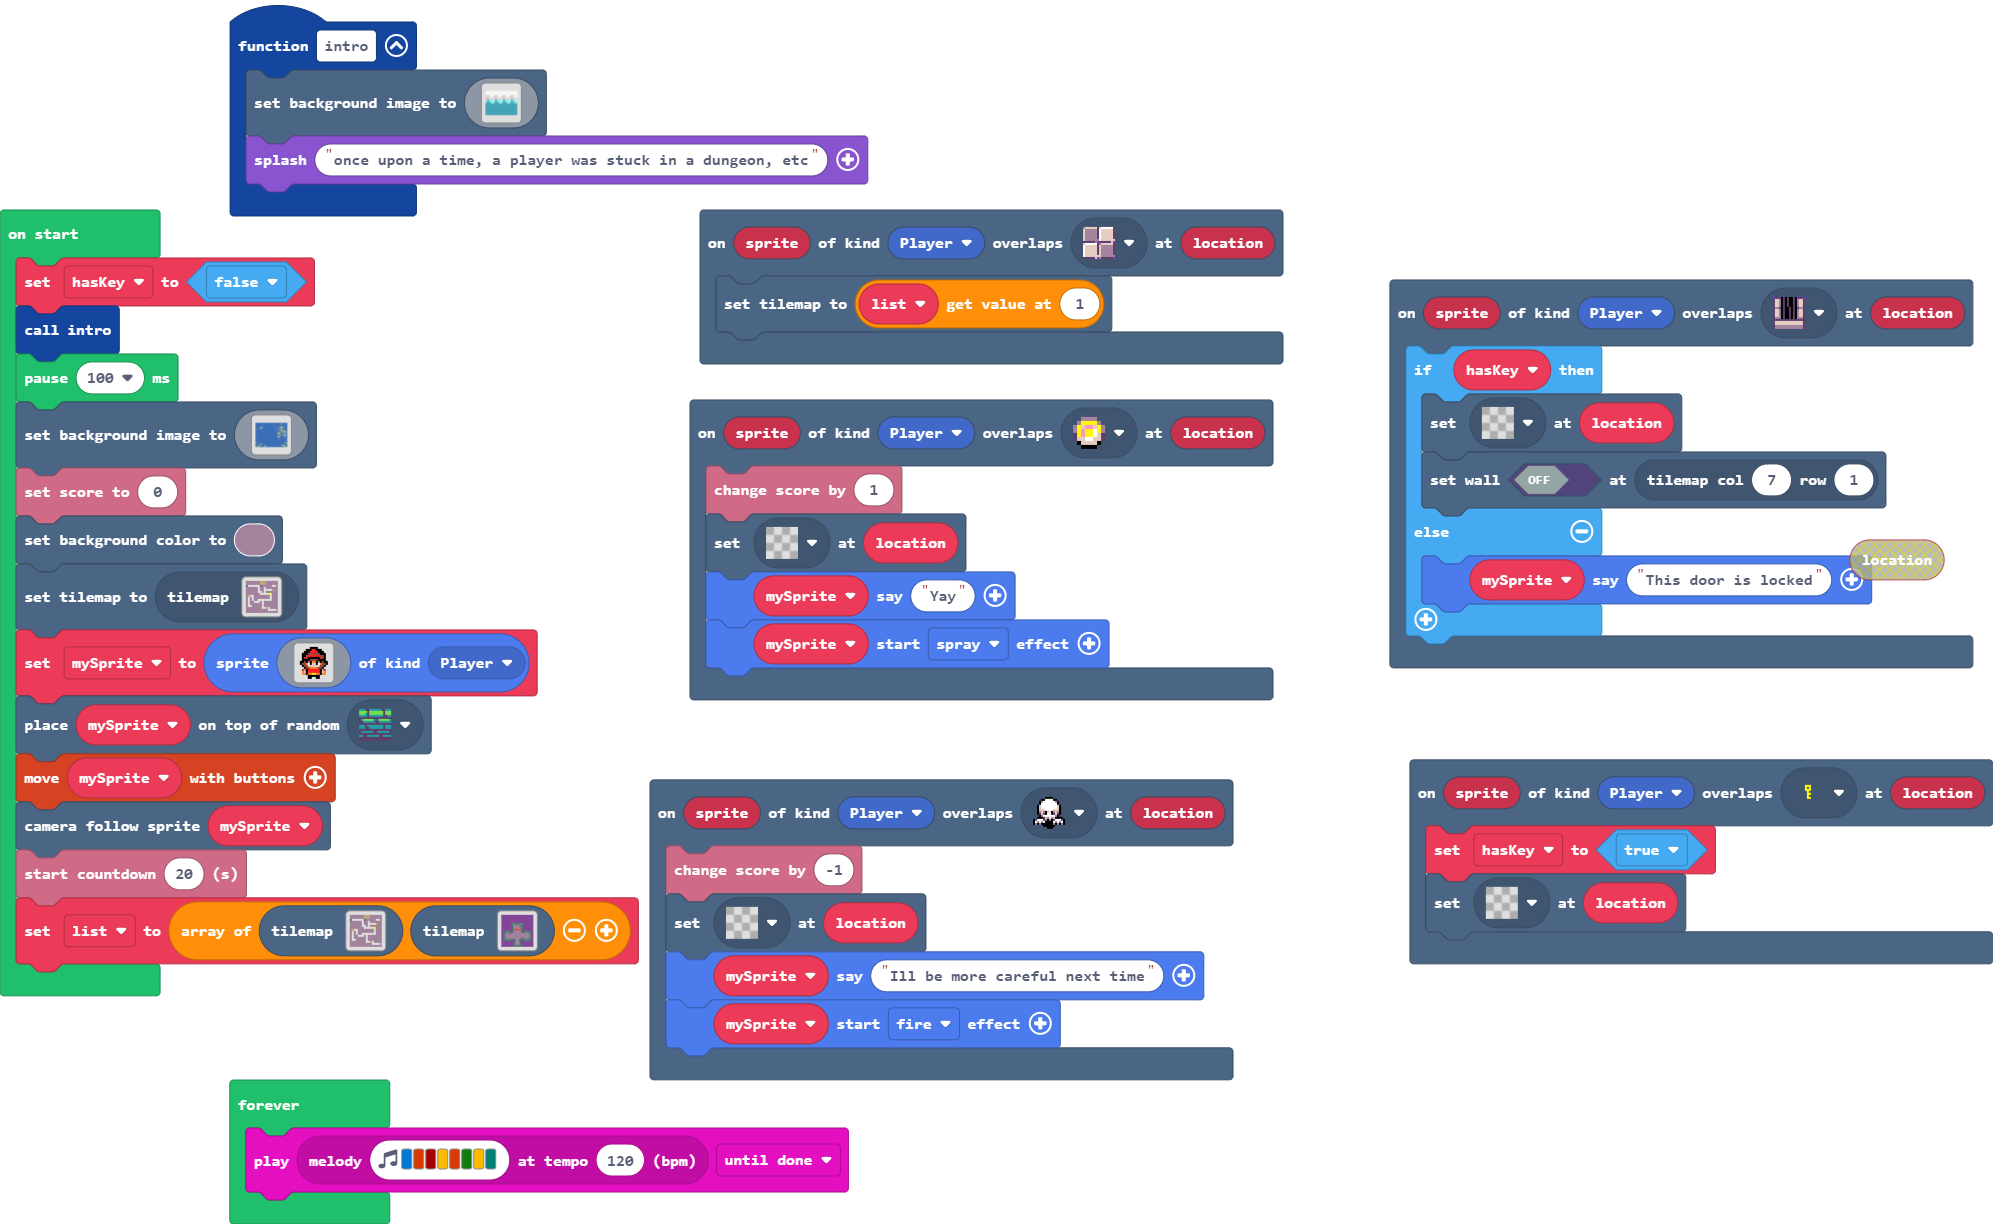
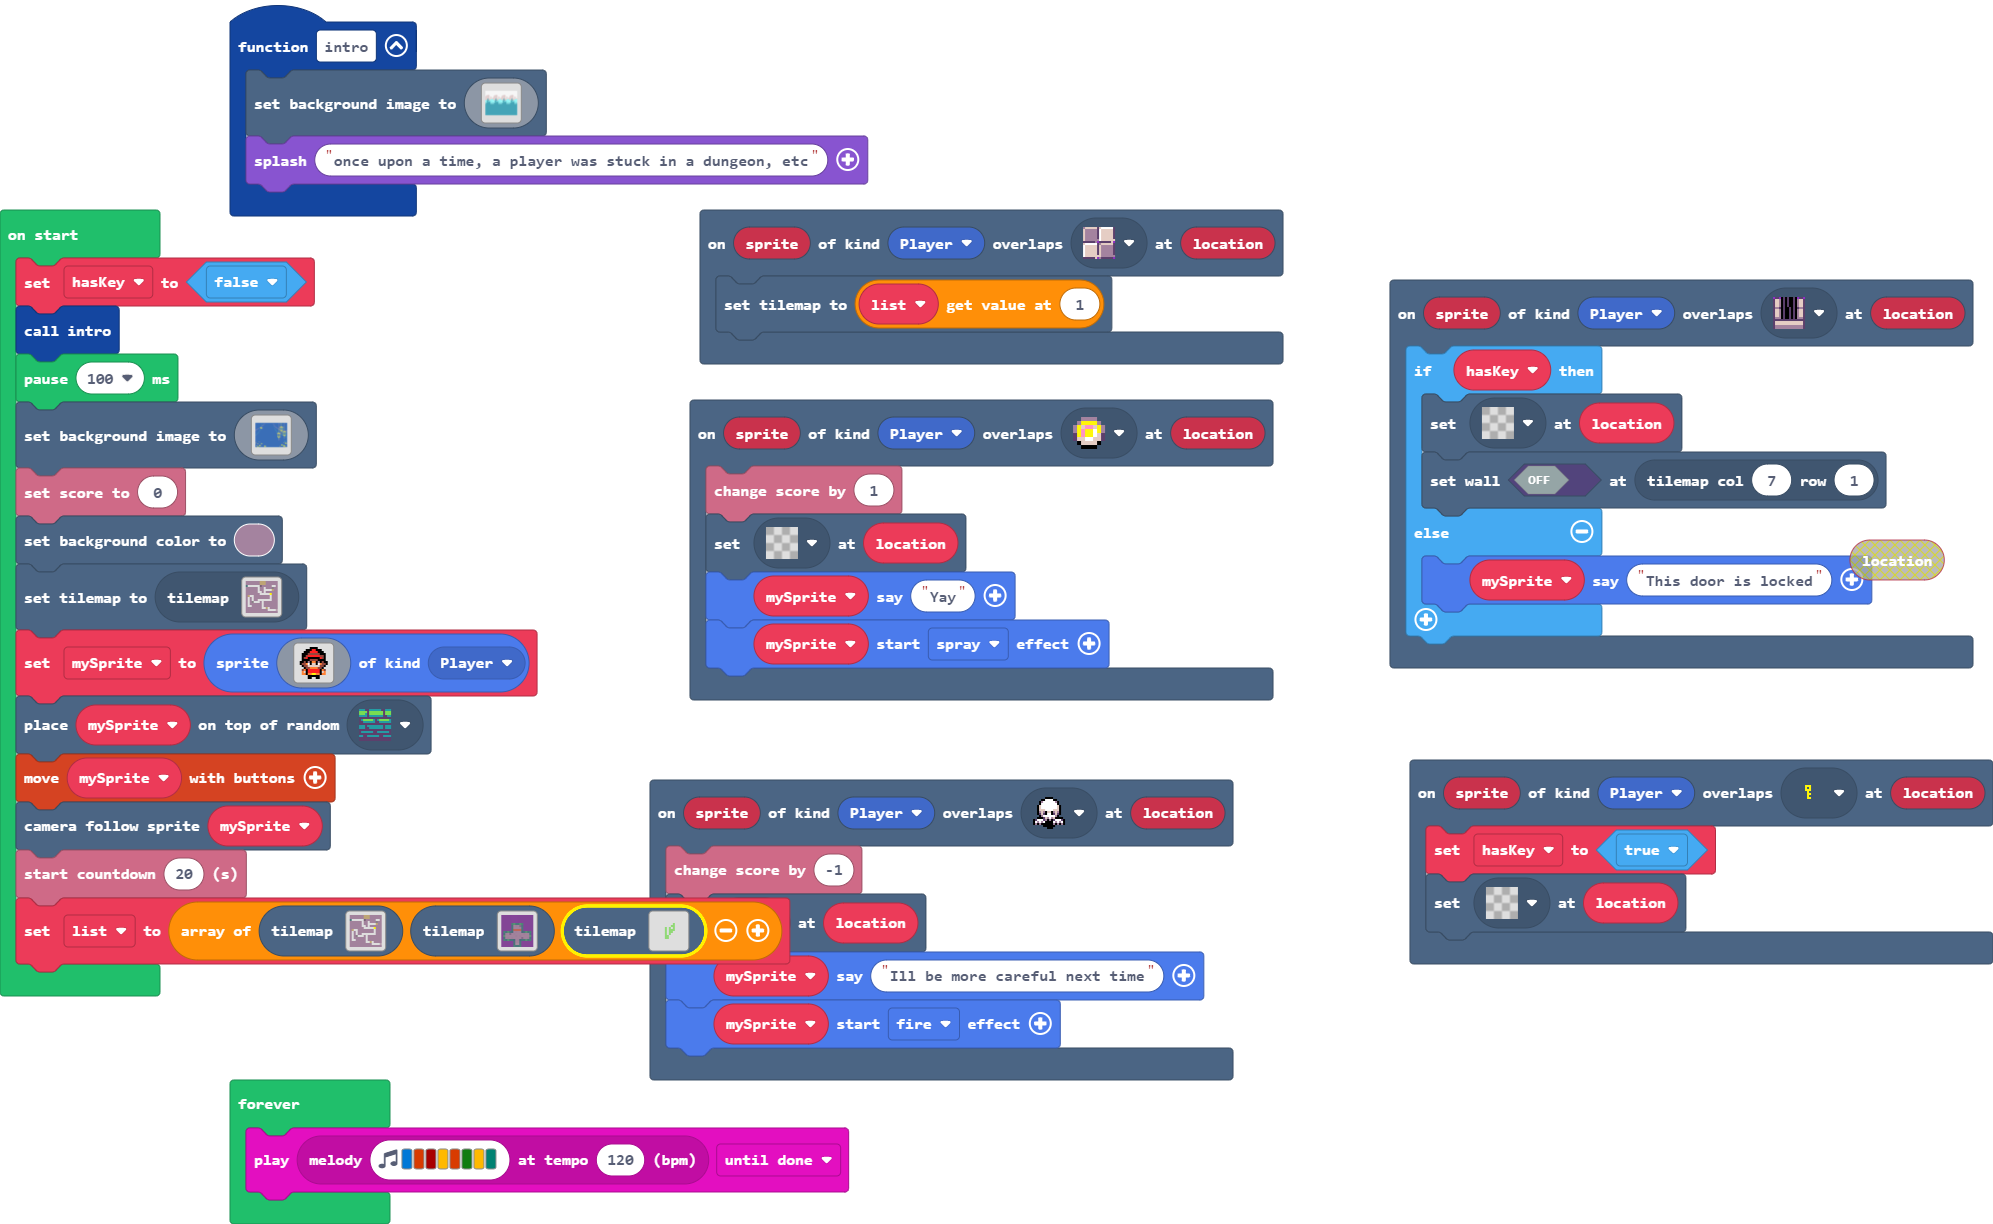
new tilemap

diff --git a/tilemap.g.ts b/tilemap.g.ts
@@ -297,7 +297,7 @@ namespace myTiles {
 . . . . . . . . . . . . . . . . 
 `, [myTiles.transparency16,sprites.dungeon.greenOuterNorth0,sprites.dungeon.greenOuterNorthWest,sprites.dungeon.greenOuterNorthEast,sprites.dungeon.greenOuterEast0,sprites.dungeon.greenOuterWest1,sprites.dungeon.greenInnerSouthWest,sprites.dungeon.greenInnerSouthEast,sprites.dungeon.greenOuterSouthWest,sprites.dungeon.greenOuterSouthEast,sprites.dungeon.greenOuterSouth0,sprites.dungeon.greenOuterNorth2,sprites.dungeon.greenOuterEast2,sprites.dungeon.greenOuterWest2,sprites.dungeon.greenOuterSouth2,sprites.dungeon.stairSouth,sprites.dungeon.greenInnerNorthWest,sprites.dungeon.greenInnerNorthEast,sprites.dungeon.floorDark3,sprites.dungeon.floorDark0,sprites.dungeon.floorDark1,sprites.dungeon.stairLadder,sprites.dungeon.purpleOuterWest1,sprites.dungeon.purpleOuterEast0,sprites.dungeon.purpleOuterWest0,sprites.dungeon.greenOuterSouth1], TileScale.Sixteen);
             case "level16":
-            case "level16":return tiles.createTilemap(hex`1000100000000000000000000000000000000000000000000000000000000000000000000000000000000000000000000000000000000000000000000000000000000000000000000000000000000000000000000000000000000000000000000000000000000000000000000000000000000000000000000000000000000000000000000000000000000000000000000000000000000000000000000000000000000000000000000000000000000000000000000000000000000000000000000000000000000000000000000000000000000000000000000000000000000000000000000000000000000000000000000000000000000000000000000000000000000000`, img`
+            case "level16":return tiles.createTilemap(hex`1000100000000000000000000000000000000000000000000000000000000000000000000000000000000000000000000000000000000000000000000000000000000000000000000000000000000100000000000000000000000000000101000000000000000000000001000100010000000000000000000000010001010100000000000000000000000100010100000000000000000000000001000100000000000000000000000000010100000000000000000000000000000101000000000000000000000000000000000000000000000000000000000000000000000000000000000000000000000000000000000000000000000000000000000000000000000000`, img`
 . . . . . . . . . . . . . . . . 
 . . . . . . . . . . . . . . . . 
 . . . . . . . . . . . . . . . . 
@@ -314,7 +314,7 @@ namespace myTiles {
 . . . . . . . . . . . . . . . . 
 . . . . . . . . . . . . . . . . 
 . . . . . . . . . . . . . . . . 
-`, [myTiles.transparency16], TileScale.Sixteen);
+`, [myTiles.transparency16,sprites.castle.tileGrass2], TileScale.Sixteen);
         }
         return null;
     })

diff --git a/main.ts b/main.ts
@@ -303,7 +303,7 @@ tiles.placeOnRandomTile(mySprite, sprites.dungeon.greenOuterNorth0)
 controller.moveSprite(mySprite)
 scene.cameraFollowSprite(mySprite)
 info.startCountdown(20)
-list = [tilemap`level1`, tilemap`level15`]
+list = [tilemap`level1`, tilemap`level15`, tilemap`level16`]
 forever(function () {
     music.play(music.stringPlayable("E B C5 A B G A F ", 120), music.PlaybackMode.UntilDone)
 })
